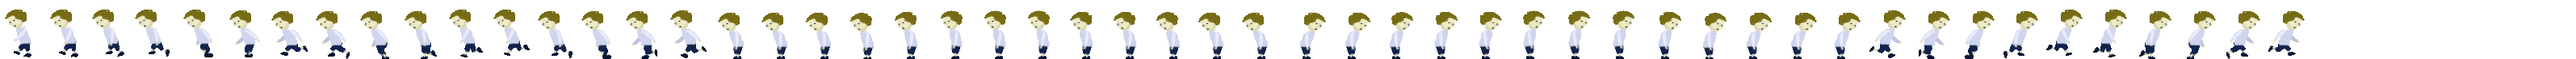
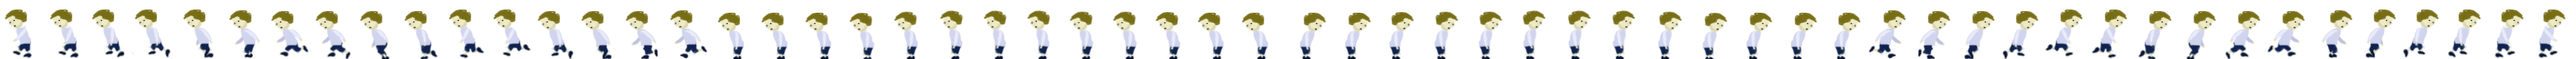
Got the character pointed in the right direction. Started working on gradual velocit/max velocity.

diff --git a/Testing.html b/Testing.html
@@ -31,6 +31,7 @@ function preload()
 //Player Variables
 var player;
 var playermotion = "";
+var playervelocity = '';
 
 //Enemy Variables
 var enemy;
@@ -90,8 +91,10 @@ function create()
     player.animations.add('right', [42, 43, 44, 45, 46, 47, 48, 49, 50, 51],12, true);
     player.animations.add('stillleft', [28, 27, 26, 25, 24, 23, 22, 21, 20, 19, 18, 17, 16],5, true);
     player.animations.add('stillright', [29, 30, 31, 32, 33, 34, 35, 36, 37, 38, 39, 40, 41],5, true);
-    player.animations.add('jumpleft', [1, 2, 3, 4, 5],5, true);
-    player.animations.add('jumpright', [42, 43, 44, 45, 46, 47],12, true);   
+    player.animations.add('jumpleft', [1, 2, 3, 4, 5],8, true);
+    player.animations.add('jumpright', [52, 53, 54, 55, 56, 57],8, true);   
+    player.animations.play('stillright');
+    playermotion = 'right';
     ///////////////////////////////////////////////////////////////////////////////////////////////
     
     // Moving Enemy Settings/////////////////////////////////////////////////////////////////
@@ -157,16 +160,34 @@ function update()
        
     //  Move to the left
     if (cursors.left.isDown && player.body.touching.down)
-    {      
-        player.body.velocity.x = -150;
-        player.animations.play('left');     
-        this.LeftMotion();
+    {
+    	//player.body.velocity.x = -50;
+    	//playermotion = 'left';
+    	//player.animations.play('left'); 
+    	
+    	if (player.body.velocity.x != -150 && playervelocity != 'triggered')
+        {       	
+        	playervelocity = 'triggered';
+        	
+    		for (var i = 0; i < 3; i++)
+    		{  	
+    			switch(i) 
+    			{
+    				case 0:
+        				player.body.velocity.x = -50;
+    					playermotion = 'left';
+    					player.animations.play('left'); 
+        				break;
+
+				}    				 			
+        	}  
+        }
     }
     
     if (cursors.left.isDown && ! player.body.touching.down)
     {
     	player.body.velocity.x = -150;
-    	this.LeftMotion();
+    	playermotion = 'left';
     }
     
     //  Move to the right
@@ -174,38 +195,40 @@ function update()
     {     
         player.body.velocity.x = 150;
         player.animations.play('right');     
-        this.RightMotion();
+        playermotion = 'right';
     }
     
     if (cursors.right.isDown && ! player.body.touching.down)
     {     
         player.body.velocity.x = 150;        
-        this.RightMotion();
+        playermotion = 'right';
     }
       
     if (!cursors.right.isDown && !cursors.left.isDown && player.body.touching.down)
     {
         //  Stand still
-        if(playermotion = 'left')
+        if(playermotion == 'left')
     	{
-    		this.LeftMotion();
+    		playermotion = 'left';
     		player.animations.play('stillleft');
+    		//playervelocity = '';
     	}
     	
-    	if(playermotion = 'right')
+    	if(playermotion == 'right')
     	{
-    		this.RightMotion();
+    		playermotion = 'right';
     		player.animations.play('stillright');
+    		//playervelocity = '';
     	}  
     }
     
     //  Allow the player to jump if they are touching the ground.
     if (cursors.up.isDown && player.body.touching.down)
     {
-    	if(playermotion = 'left')
+    	if(playermotion =='left')
     	{
-    		this.LeftMotion();
-    		player.body.velocity.y = -150;
+    		playermotion = 'left';
+    		player.body.velocity.y = -200;
     		player.animations.play('jumpleft');
     		
             player.events.onAnimationLoop.add(function()
@@ -218,10 +241,10 @@ function update()
 			}, this);
     		
     	}
-    	else if(playermotion = 'right')
+    	else if(playermotion == 'right')
     	{
-    		this.RightMotion();
-    		player.body.velocity.y = -150;
+    		playermotion = 'right';
+    		player.body.velocity.y = -200;
     		player.animations.play('jumpright');
     		
     		player.events.onAnimationLoop.add(function()
@@ -229,25 +252,28 @@ function update()
 				console.log(player.animations.currentAnim.loopCount);
 				if (player.animations.currentAnim.loopCount >= 1) {
 					player.animations.stop();
-					player.frame = 0;
+					player.frame = 57;
 				} 
 			}, this);
     	}       
     }
-	
-	this.LeftMotion = function()
-	{
-    	playermotion = "left";
-	};
-
-	this.RightMotion = function()
-	{
-    	playermotion = "right";	
-	};
 }
 
-
-
+function LeftVelocity (i) 
+{  
+	switch(i) 
+    {
+    	case 0:
+        	player.body.velocity.x = -50;
+        	break;
+    	case 1:
+        	player.body.velocity.x = -100;
+        	break;
+        case 2:
+        	player.body.velocity.x = -150;
+        	break;
+	}    	
+};
 
 function collectStar (player, star) 
 {  
@@ -308,8 +334,6 @@ function CollideEnemy (player, enemy)
     setTimeout(this.update,1500); 
     console.log('after');
 }
-
-
 
 </script>
 </body>
